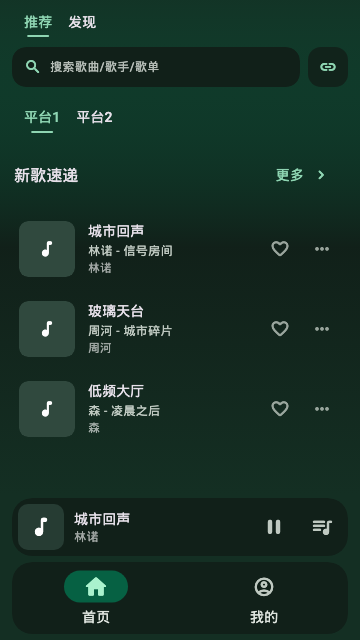
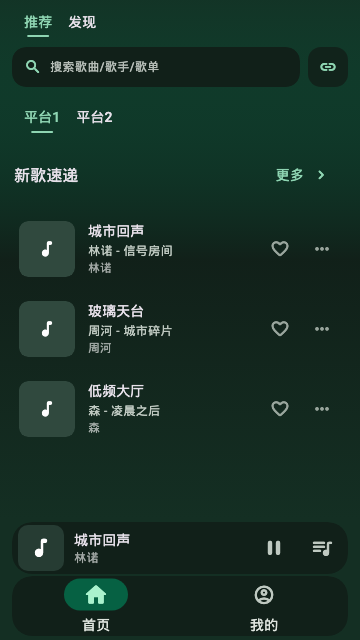
refactor(home): 压缩底部播放栏与导航高度

diff --git a/test/shared/widgets/app_shell_test.dart b/test/shared/widgets/app_shell_test.dart
@@ -91,6 +91,31 @@ void main() {
     expect(tester.getRect(miniPlayer), initialMiniPlayerRect);
     expect(tester.getRect(navigationBar), initialNavigationBarRect);
   });
+
+  testWidgets('shell uses compact bottom chrome heights', (tester) async {
+    final skin = AppSkinRegistry.builtIn(
+      AppThemeAccent.forest,
+    ).resolve(AppSkinRegistry.classicId);
+    final router = _createRouter();
+    addTearDown(router.dispose);
+
+    await tester.pumpWidget(
+      ProviderScope(
+        overrides: [
+          appConfigProvider.overrideWith(_ImmersiveAppConfigController.new),
+          playerControllerProvider.overrideWith(_TestPlayerController.new),
+        ],
+        child: MaterialApp.router(
+          theme: AppTheme.light(skin),
+          routerConfig: router,
+        ),
+      ),
+    );
+    await tester.pumpAndSettle();
+
+    expect(tester.getSize(find.byType(MiniPlayerBar)).height, 56);
+    expect(tester.getSize(find.byType(NavigationBar)).height, 60);
+  });
 }
 
 GoRouter _createRouter() {

diff --git a/test/app/theme/skin/starlit_melody_assets_test.dart b/test/app/theme/skin/starlit_melody_assets_test.dart
@@ -21,10 +21,10 @@ const _darkEvaluationHash =
[1 lines of base64/hex data omitted]
 const _lightPreviewPath = 'assets/skins/starlit_melody/preview_light.png';
 const _lightPreviewHash =
[2 lines of base64/hex data omitted]
 const _darkPreviewPath = 'assets/skins/starlit_melody/preview_dark.png';
 const _darkPreviewHash =
[2 lines of base64/hex data omitted]
 
 void main() {
   test('evaluation assets match their recorded provenance', () async {

diff --git a/test/app/theme/skin/classic_assets_test.dart b/test/app/theme/skin/classic_assets_test.dart
@@ -10,10 +10,10 @@ import 'package:he_music_flutter/app/theme/skins/classic_skin.dart';
 
 const _lightPreviewPath = 'assets/skins/classic/preview_light.png';
 const _lightPreviewHash =
[2 lines of base64/hex data omitted]
 const _darkPreviewPath = 'assets/skins/classic/preview_dark.png';
 const _darkPreviewHash =
[2 lines of base64/hex data omitted]
 
 void main() {
   test('classic previews match their recorded provenance', () async {

diff --git a/test/app/theme/skin/city_sound_creator_assets_test.dart b/test/app/theme/skin/city_sound_creator_assets_test.dart
@@ -31,12 +31,12 @@ const _dark = _WallpaperContract(
 
 const _lightPreview = _PreviewContract(
   path: 'assets/skins/city_sound_creator/preview_light.png',
[2 lines of base64/hex data omitted]
 );
 
 const _darkPreview = _PreviewContract(
   path: 'assets/skins/city_sound_creator/preview_dark.png',
[2 lines of base64/hex data omitted]
 );
 
 const _iconDirectory = 'assets/skins/city_sound_creator/icons';

diff --git a/lib/features/player/presentation/widgets/mini_player_bar.dart b/lib/features/player/presentation/widgets/mini_player_bar.dart
@@ -79,11 +79,11 @@ class _MiniPlayerBarState extends ConsumerState<MiniPlayerBar> {
     final bar = LayoutBuilder(
       builder: (context, constraints) {
         return Padding(
-          padding: const EdgeInsets.fromLTRB(12, 4, 12, 4),
+          padding: const EdgeInsets.fromLTRB(12, 2, 12, 2),
           child: AppSkinSurface(
             role: AppSkinSurfaceRole.miniPlayer,
             child: SizedBox(
-              height: 58,
+              height: 52,
               child: Row(
                 children: <Widget>[
                   const SizedBox(width: 6),

diff --git a/lib/shared/widgets/app_shell.dart b/lib/shared/widgets/app_shell.dart
@@ -48,7 +48,7 @@ class _MobileLayout extends ConsumerWidget {
       bottomNavigationBar: SafeArea(
         top: false,
         child: Padding(
-          padding: const EdgeInsets.fromLTRB(12, 2, 12, 6),
+          padding: const EdgeInsets.fromLTRB(12, 0, 12, 4),
           child: AppSkinSurface(
             role: AppSkinSurfaceRole.navigation,
             child: NavigationBar(

diff --git a/lib/features/home/presentation/pages/home_page.dart b/lib/features/home/presentation/pages/home_page.dart
@@ -55,7 +55,7 @@ class _HomePageState extends ConsumerState<HomePage> {
       bottomNavigationBar: SafeArea(
         top: false,
         child: Padding(
-          padding: const EdgeInsets.fromLTRB(12, 2, 12, 6),
+          padding: const EdgeInsets.fromLTRB(12, 0, 12, 4),
           child: Material(
             color: theme.colorScheme.surface,
             elevation: 4,

diff --git a/lib/app/theme/app_theme.dart b/lib/app/theme/app_theme.dart
@@ -164,7 +164,7 @@ abstract final class AppTheme {
         indicatorColor: geometry.showNavigationIndicatorPill
             ? colors.navigationIndicator
             : Colors.transparent,
-        height: 72,
+        height: 60,
         elevation: 0,
         labelTextStyle: WidgetStatePropertyAll(
           textTheme.labelMedium?.copyWith(

diff --git a/assets/skins/city_sound_creator/LICENSES.md b/assets/skins/city_sound_creator/LICENSES.md
@@ -124,7 +124,7 @@ The replacement dark derivative was inspected at full frame and local detail on 
 - Generator: `make skin-previews`, which runs `flutter test --update-goldens test/app/theme/skin_preview_golden_test.dart`.
 - Render contract: actual `MaterialApp.router`, `AppTheme`, `AppSkinBackgroundLayer`, home route, recommend/discover tabs, recommend song list, mini player, bottom navigation, production wallpapers, and production SVG catalog at a fixed `360x640` logical-pixel viewport.
 - Data contract: deterministic Riverpod overrides provide fixed Chinese UI content; no image model redraws or synthesizes application text.
-- UI revision: regenerated on 2026-08-07 with the Home recommend/discover tabs and default recommend scene; wallpaper, SVG, and Rive assets are unchanged.
+- UI revision: regenerated on 2026-08-11 with compact MiniPlayer and bottom navigation heights; wallpaper, SVG, and Rive assets are unchanged.
 - Test fonts: Roboto Regular, Medium, and Bold plus a 14 KB Chinese glyph subset derived from Android Open Source Project's Droid Sans Fallback, all under Apache License 2.0. The files, subset glyph manifest, provenance, and license are retained under `test/assets/fonts/` and are not declared as runtime assets.
 - Material fallback icons: loaded from the Material Icons font already declared by Flutter's `uses-material-design` contract.
 - Technical inspection: both previews show the decoded production wallpaper, readable Chinese text, production SVGs, Material fallbacks, mini player, and navigation without blank regions or overlaps. The current revision uses a roughly `48%` white readability overlay in light mode; scrolling Items are transparent in both brightness modes and transparent surfaces do not draw shadows.
@@ -134,13 +134,13 @@ The replacement dark derivative was inspected at full frame and local detail on 
 
 - Path: `assets/skins/city_sound_creator/preview_light.png`.
 - Actual dimensions: `360x640`.
[2 lines of base64/hex data omitted]
 
 ### Dark real UI preview
 
 - Path: `assets/skins/city_sound_creator/preview_dark.png`.
 - Actual dimensions: `360x640`.
[2 lines of base64/hex data omitted]
 
 ## Rive ambient animation
 

diff --git a/assets/skins/starlit_melody/LICENSES.md b/assets/skins/starlit_melody/LICENSES.md
@@ -36,11 +36,11 @@ No generative enhancement, face repair, spatial crop, or composition change was 
 
 - Generation: real routed Flutter home scene through `make skin-previews`
 - Actual dimensions: `360x640` for both previews
-- UI revision: regenerated on 2026-08-07 with the Home recommend/discover tabs and default recommend scene; wallpaper and theme-token assets are unchanged
+- UI revision: regenerated on 2026-08-11 with compact MiniPlayer and bottom navigation heights; wallpaper and theme-token assets are unchanged
 - Light preview: `assets/skins/starlit_melody/preview_light.png`
[2 lines of base64/hex data omitted]
 - Dark preview: `assets/skins/starlit_melody/preview_dark.png`
[2 lines of base64/hex data omitted]
 - Light tokens: Ice Rail primary `#00677A`, Berry Signal secondary `#B72F5B`, Ink text `#17202A`, transparent scrolling content surface
 - Dark tokens: Ice Rail primary `#78D5E7`, blue-gray fixed surfaces, Mist text `#F0EDF5`, transparent scrolling content surface
 - Approval status: the light preview and current dark evaluation appearance were approved by the user on 2026-07-28; these files were regenerated from those same runtime tokens

diff --git a/assets/skins/classic/LICENSES.md b/assets/skins/classic/LICENSES.md
@@ -9,18 +9,18 @@ The classic skin has no external wallpaper or icon assets. This directory contai
 - Dark seed: `#34D399`
 - Generation: real routed Flutter home scene through `make skin-previews`
 - Actual dimensions: `360x640` for both previews
-- UI revision: regenerated on 2026-08-07 with the Home recommend/discover tabs and default recommend scene; theme tokens and bundled assets are unchanged
+- UI revision: regenerated on 2026-08-11 with compact MiniPlayer and bottom navigation heights; theme tokens and bundled assets are unchanged
 
 The classic skin still supports manual accent selection. These static previews represent the application default accent and must be regenerated if `AppConfigState.initial.themeAccent` changes.
 
 ## Light Preview
 
 - Path: `assets/skins/classic/preview_light.png`
[2 lines of base64/hex data omitted]
 - Actual dimensions: `360x640`
 
 ## Dark Preview
 
 - Path: `assets/skins/classic/preview_dark.png`
[2 lines of base64/hex data omitted]
 - Actual dimensions: `360x640`
